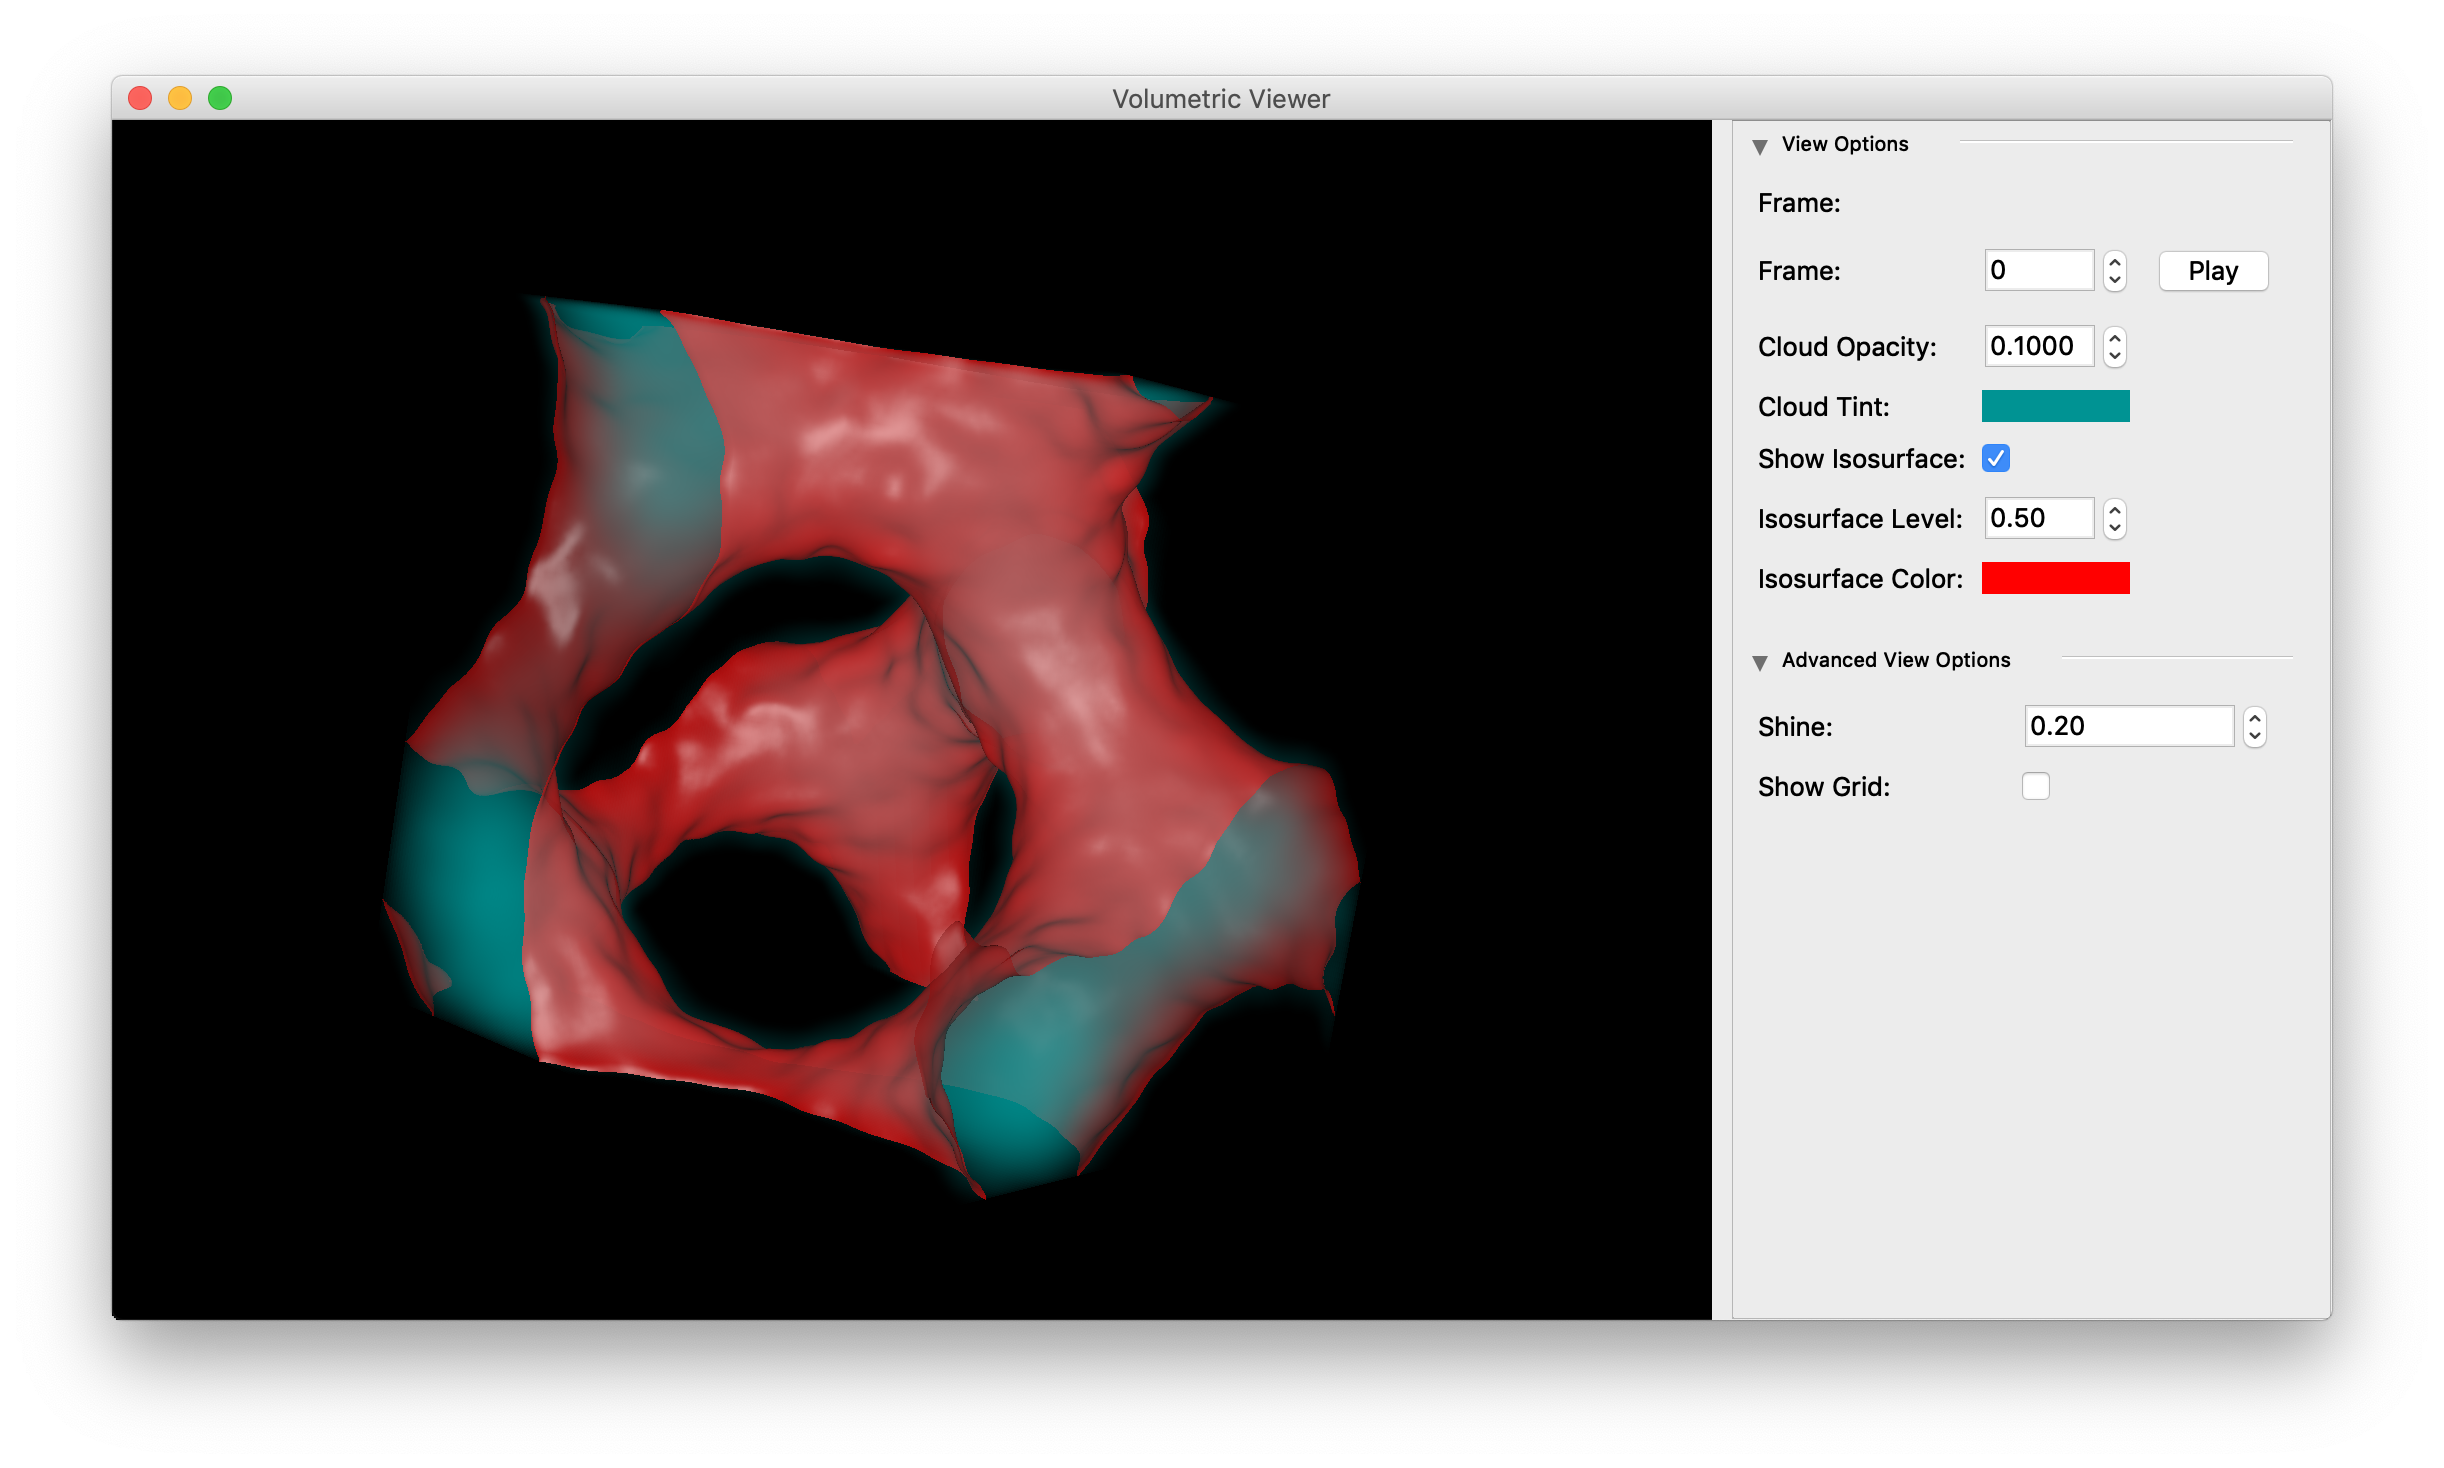
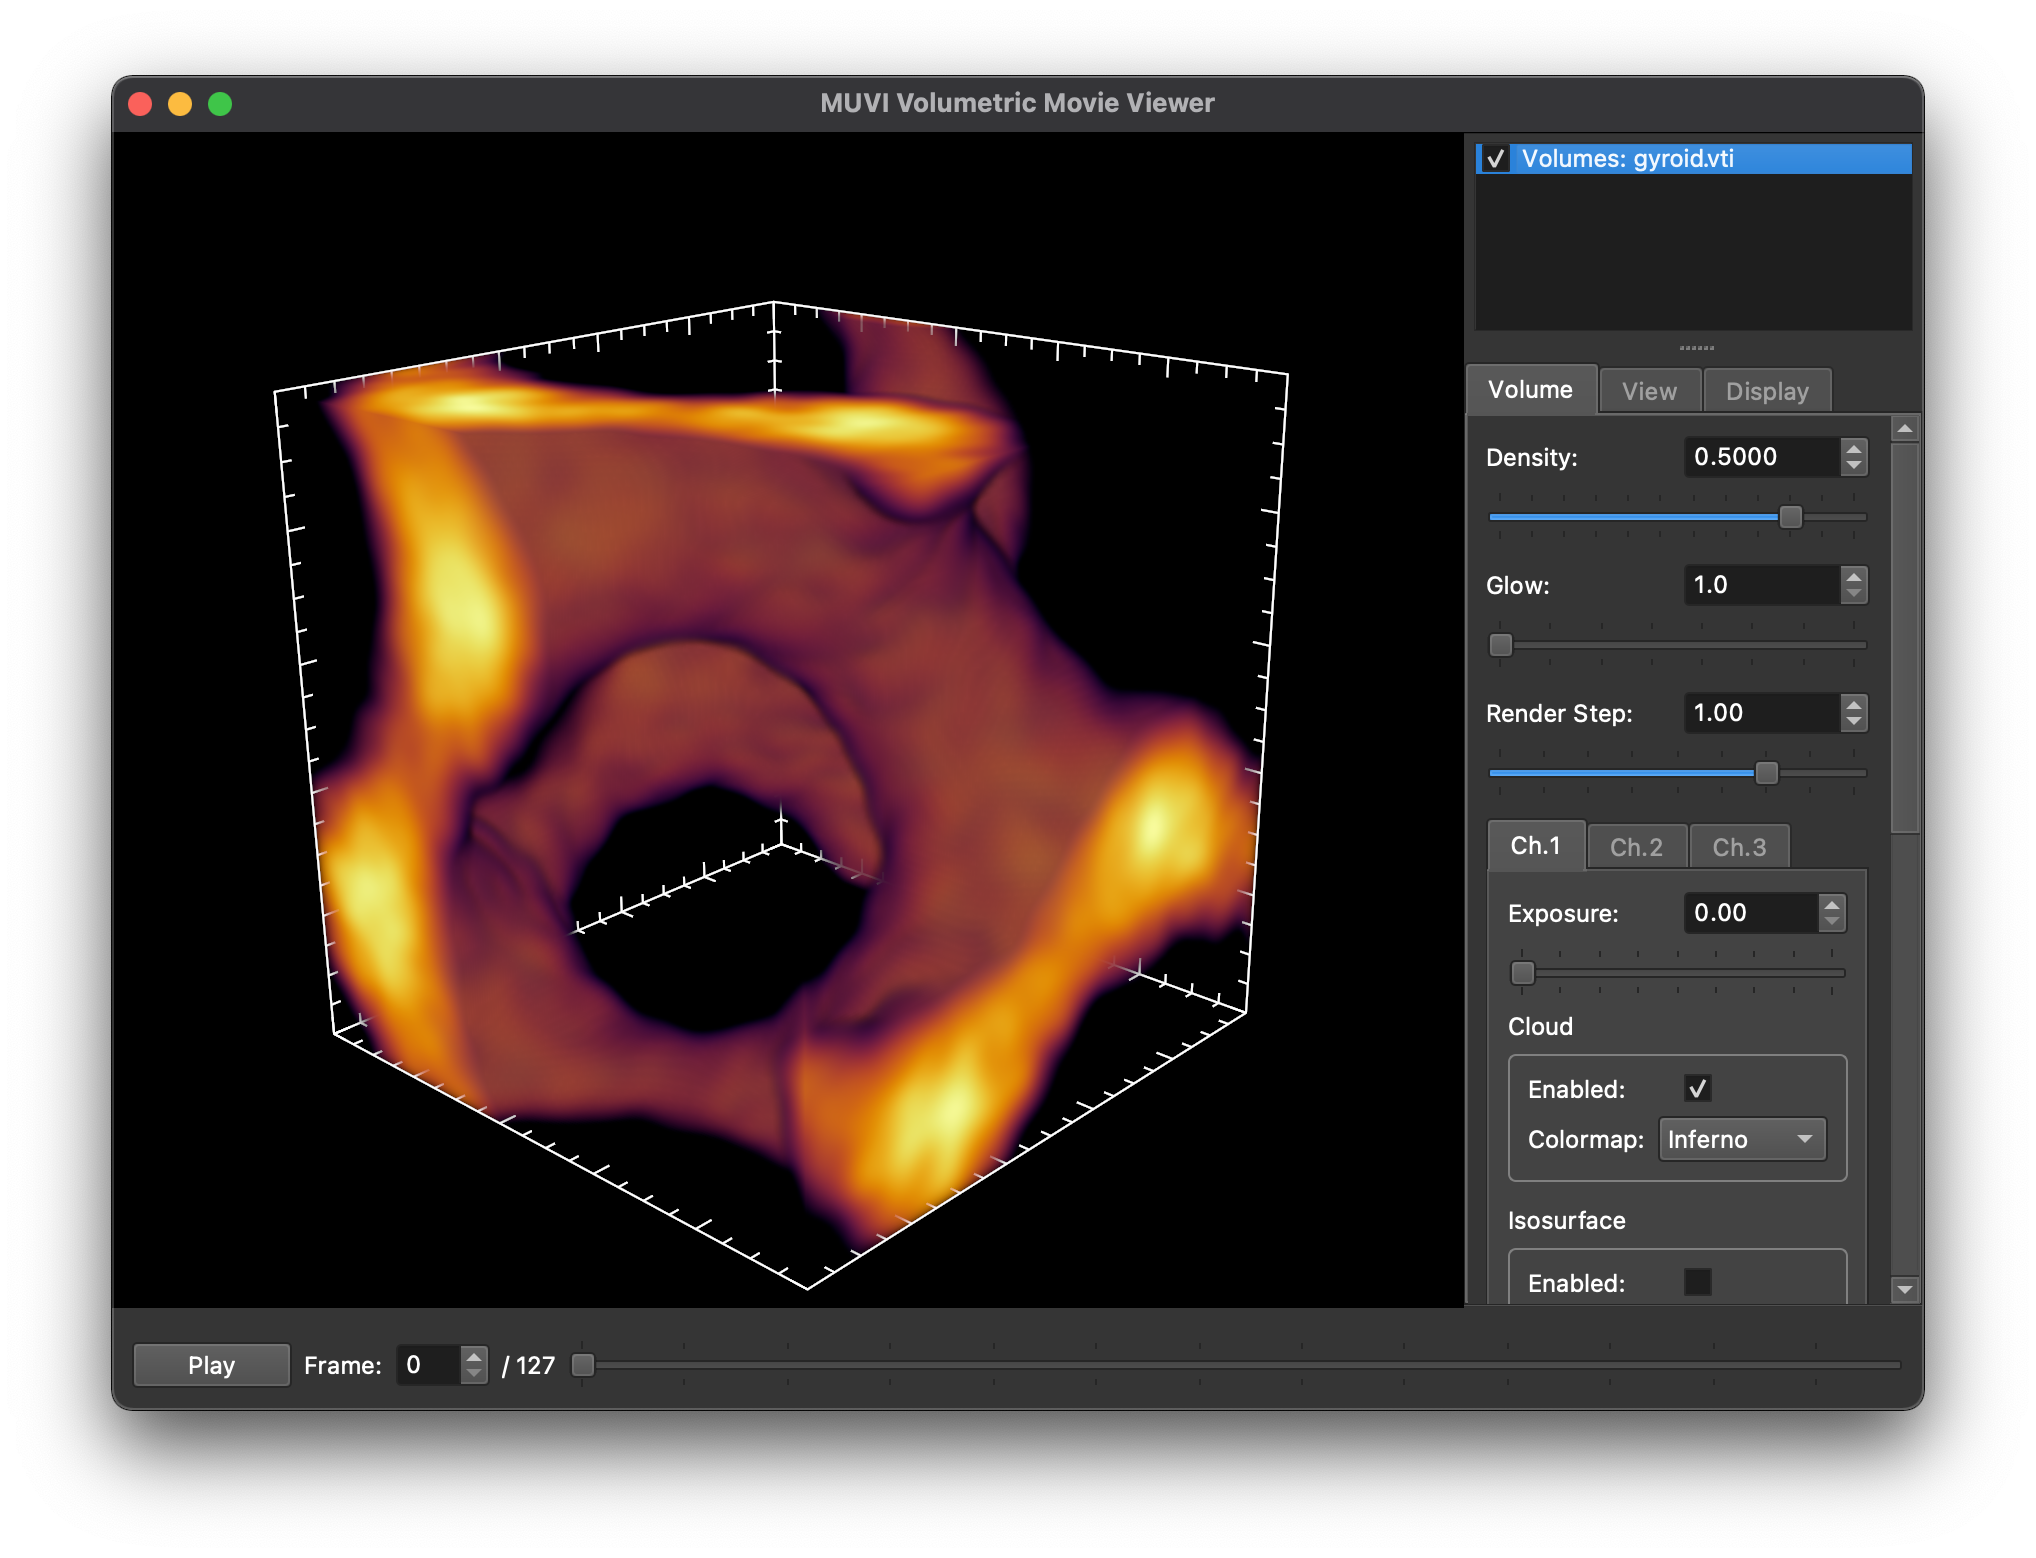
Updated readme

diff --git a/muvi/view/view.py b/muvi/view/view.py
@@ -147,7 +147,7 @@ class ViewAsset:
                 vol = vol[..., np.newaxis]
 
             GL.glActiveTexture(GL.GL_TEXTURE1)
-            self.volumeTexture = textureFromArray(vol, wrap=GL.GL_CLAMP_TO_BORDER)
+            self.volumeTexture = textureFromArray(vol, wrap=GL.GL_CLAMP_TO_EDGE)
             GL.glActiveTexture(GL.GL_TEXTURE0)
 
 

diff --git a/README.md b/README.md
@@ -58,6 +58,8 @@ the defaults, your muvi directory is  `~\github\muvi`
 
 ## Mac / Linux
 
+**Note:** The software is being actively developed and tested on Mac OS X, but not in Linux.  It should *probably* work, but may have some minor bugs.  If you run into any issues, please reach out!
+
 ### Dependencies
 
 In order to run the tools, you will need several Python packages installed, including:
@@ -109,7 +111,7 @@ If updates are available, this will button will change to `Pull`; click again an
 To create and view an example volume:
 
 ```shell
-$ cd [MUVI DIR]/util
+$ cd [MUVI DIR]/examples
 $ python generate_gyroid.py
 $ muvi gyroid.vti
 ```
@@ -119,15 +121,26 @@ $ muvi gyroid.vti
 Alternatively, there is a sample frame from a real experiment in the same directory, it can be viewed with:
 
 ```shell
-$ cd [MUVI DIR]/util
-$ muvi ../samples/sample_frame.vti
+$ muvi [MUVI DIR]/samples/sample_frame.vti
 ```
 
-## Converting a 2D Movie to 3D
+Note also that you can drag and drop files into the Muvi Viewer window, which will automatically display them.
 
-**Note: this instructions are outdated; `Nz` and `Nz` are determined automatically
-if converting from Cines files which are triggered only during the active scan
-region.**
+## Introduction to the viewer.
+
+The viewer has a few main parts:
+ * **Rendered data:** the main portion of the window.
+ * **Data selector:** top-right of the window.  This allows you to select which data is displayed, and add/remove files.  Right click on a data item to get more options.  Also, if you select an item (left click on it), it's display options will be shown in the panel below.
+ * **Display options:** center-right of the window.  This displays all the adjustable options for the rendering of the data.  Note that the first tab is specific to the data item you have selected above.
+ * **Playback controls:** bottom of the window.  Note that playback speed is controlled in the "View" tab of the display options.
+
+If you would like to export an image, you can open the export window with `Ctrl+E` (`Cmd+E` on Mac).
+
+You can also hide/show the right panel with `Ctrl+/` (`Cmd+/` on Mac).
+
+Most of the display options include "tooltips" -- if you hover the cursor over the controls it will give you more information on what it does.
+
+## Converting a 2D Movie to 3D
 
 To convert a Phantom CINE file to compressed VTI volume, you need to first generate a XML file which contains the VolumeProperties info.  This will allow you to define the number of frames per volume and other important properties.  To do this, copy the `samples/muvi_setup.xml` file (copied below) to the same directory as your 2D movie source files.  If you leave the name as is, it will be automatically used by every file conversion in that directory.  Alternatively, if you give it the same name as your source file (apart from the extension), this will be used for that specific file only.
 
@@ -172,19 +185,18 @@ To convert a Phantom CINE file to compressed VTI volume, you need to first gener
 </VolumeProperties>
 ```
 
+**Note:** If your 3D frames are trigger only during the active scan region,  you can comment out the `Ns` and `Nz` entries.  The software will automatically determine the volume depth by analyzing the frame timings!
+
 Additionally, there are two utilities in the `util` directory which are useful for determining the properties of Cine files:
 
 * `cine_histo.py`: This will sample the input cine file and create a histogram of the brightness levels.  Can be used to determine the appropriate `dark_clip` level.  (Although the default is usually sufficient.)
-* `frame_delta.py`: This will analyze the first 1500 frames to try to find the "turn-around" of the laser scanner.  Can be used to determine the number of frames in a scan (`Ns`) and the offset (`offset`).
+* `frame_delta.py`: This will analyze the first 1500 frames to try to find the "turn-around" of the laser scanner.  Can be used to determine the number of frames in a scan (`Ns`) and the offset (`offset`).  (**Note:** this utility is obsolete in practice; if you don't specify `Ns` or `Nz`, this analysis is automatic!)
 
-Once you've defined the volume properties, you can should be able to view your data in two ways:
-1. Use `view.py` directly on the source file.  In general, this is rather slow, as it converts on the fly.  However, this can be very useful to verify your setup.
-2. Run `convert_2D.py` on the input file (see below), and then view the resulting `.vti` conversion.
+To convert your video file, use the installed `muvi_convert` shell command to generate the `.vti` file, and `muvi` to view it:
 
 ```shell
-$ cd [MUVI DIR]/util
-$ python convert_2D.py [INPUT FILE] [OUTPUT FILE]
-$ python view.py [OUTPUT FILE]
+$ muvi_convert [INPUT FILE] [OUTPUT FILE]
+$ muvi [OUTPUT FILE]
 ```
 
 By default, the output filename is the same as the input with an `.vti`
@@ -192,9 +204,8 @@ extension.  There are also more options in the conversion utility, which you
 can view with:
 
 ```shell
-$ cd [MUVI DIR]/util
-$ python convert_2D.py --help
-usage: convert_2D.py [-h] [-x XML] [-n NUMBER] infile [outfile]
+$ muvi_convert --help
+usage: muvi_convert [-h] [-x XML] [-s START] [-e END] infile [outfile]
 
 Convert a CINE file to a VTI movie
 
@@ -205,8 +216,10 @@ positional arguments:
 optional arguments:
   -h, --help            show this help message and exit
   -x XML, --xml XML     XML file to use for conversion parameters
-  -n NUMBER, --number NUMBER
-                        Number of volumes to output (default: all)
+  -s START, --start START
+                        First volume index to convert (default: 0)
+  -e END, --end END     Last volume index to convert (default: all volumes
+                        converted)
 ```
 
 # Features
@@ -215,23 +228,23 @@ This project is currently in active development.
 A number of features are currently planned:
 
 - [x] Volume rendering
-- [ ] Isosurface viewing
+- [x] Isosurface viewing
+- [x] Mesh overlay
+- [x] Tools to generate glyphs (arrows, points, etc.) for overlays
 - [x] VTI file writing
 - [x] VTI file reading
 - [ ] VTI reading from other sources
 - [x] CINE conversion
 - [ ] SEQ conversion
 - [ ] Conversion GUI
-- [ ] Display perspective correction
+- [x] Display perspective correction
 - [x] Multichannel support (partial)
 - [ ] Support for perspective in old "S4D" format  
 - [ ] Perspective correction on volumes in memory (for external processing)
-- [ ] Image export (high res)
+- [x] Image export (high res)
 - [ ] Movie export
-- [ ] Multithreaded display code (to avoid hang ups)
-- [ ] Labelled axes
-- [ ] Standalone Mac App
-- [ ] Standalone Windows App
+- [ ] Asyncronous display code (to avoid hang ups)
+- [ ] Labeled axes
 - [ ] Create Wiki with practical examples
 
 
@@ -240,7 +253,7 @@ A number of features are currently planned:
 
 # License
 
-Copyright 2020 Dustin Kleckner
+Copyright 2021 Dustin Kleckner
 
 Licensed under the Apache License, Version 2.0 (the "License");
 you may not use this file except in compliance with the License.
